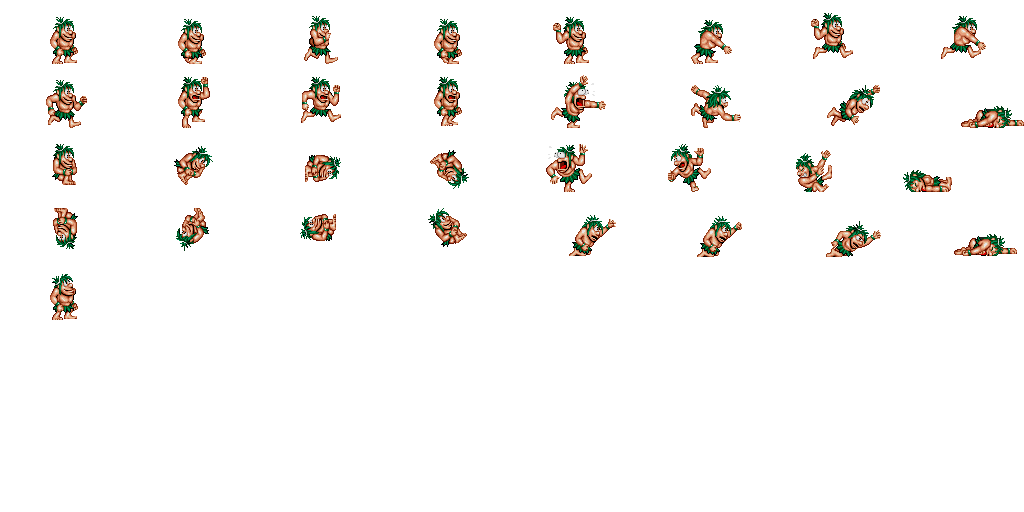
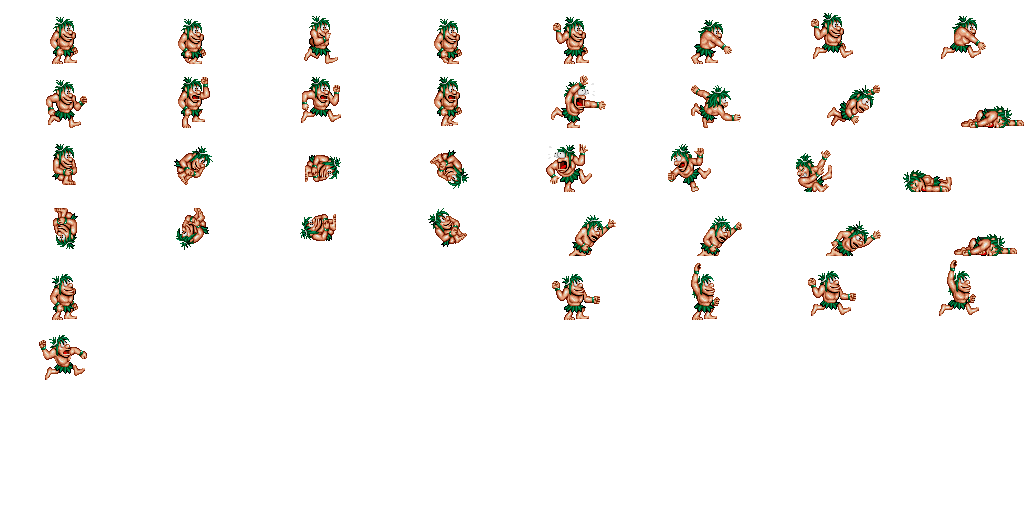
Completado el ataque vertical
* Añadidas las animaciones del ataque vertical.
* Añadido un parámetro a los métodos SetFlag de StateMachine para forzar
el cambio aunque el valor no se modifique.

diff --git a/CavemanNinja/PlayerAnimator.cpp b/CavemanNinja/PlayerAnimator.cpp
@@ -27,6 +27,14 @@ PlayerAnimator* PlayerAnimator::Create()
 	attackJump->frames.push_back({ 6, 0 });
 	attackJump->frames.push_back({ 7, 0 });
 
+	BasicAnimation* attackUp = new BasicAnimation(1024, 512, 8, 8, 16.0f, false);
+	attackUp->frames.push_back({ 4, 4 });
+	attackUp->frames.push_back({ 5, 4 });
+
+	BasicAnimation* attackUpJump = new BasicAnimation(1024, 512, 8, 8, 16.0f, false);
+	attackUpJump->frames.push_back({ 6, 4 });
+	attackUpJump->frames.push_back({ 7, 4 });
+
 	BasicAnimation* run = new BasicAnimation(1024, 512, 8, 8, 8.0f);
 	run->frames.push_back({ 1, 0 });
 	run->frames.push_back({ 2, 0 });
@@ -82,6 +90,8 @@ PlayerAnimator* PlayerAnimator::Create()
 	StateSwitcher<Animation>* idleUpState = new StateSwitcher<Animation>(idleUp);
 	StateSwitcher<Animation>* attackState = new StateSwitcher<Animation>(attack);
 	StateSwitcher<Animation>* attackJumpState = new StateSwitcher<Animation>(attackJump);
+	StateSwitcher<Animation>* attackUpState = new StateSwitcher<Animation>(attackUp);
+	StateSwitcher<Animation>* attackUpJumpState = new StateSwitcher<Animation>(attackUpJump);
 	StateSwitcher<Animation>* runState = new StateSwitcher<Animation>(run);
 	StateSwitcher<Animation>* jumpState = new StateSwitcher<Animation>(jump);
 	StateSwitcher<Animation>* longJumpStartState = new StateSwitcher<Animation>(longJumpStart);
@@ -99,6 +109,7 @@ PlayerAnimator* PlayerAnimator::Create()
 	idleState->AddStateTransition(new StateTransition<Animation>(longJumpStartState, new FlagEqualsCondition("jumping_long", true)));
 	idleState->AddStateTransition(new StateTransition<Animation>(fallState, new FlagEqualsCondition("falling", true)));
 	idleState->AddStateTransition(new StateTransition<Animation>(idleUpState, new FlagEqualsCondition("looking_up", true)));
+	idleState->AddStateTransition(new StateTransition<Animation>(attackUpState, new FlagEqualsCondition("weapon_attack_up", true)));
 	idleState->AddStateTransition(new StateTransition<Animation>(attackState, new FlagEqualsCondition("weapon_attack", true)));
 	idleState->AddStateTransition(new StateTransition<Animation>(hitBackState, new FlagEqualsCondition("hit_back", true)));
 	idleState->AddStateTransition(new StateTransition<Animation>(hitFrontState, new FlagEqualsCondition("hit_front", true)));
@@ -109,6 +120,7 @@ PlayerAnimator* PlayerAnimator::Create()
 	idleUpState->AddStateTransition(new StateTransition<Animation>(longJumpStartState, new FlagEqualsCondition("jumping_long", true)));
 	idleUpState->AddStateTransition(new StateTransition<Animation>(fallState, new FlagEqualsCondition("falling", true)));
 	idleUpState->AddStateTransition(new StateTransition<Animation>(idleState, new FlagEqualsCondition("looking_up", false)));
+	idleUpState->AddStateTransition(new StateTransition<Animation>(attackUpState, new FlagEqualsCondition("weapon_attack_up", true)));
 	idleUpState->AddStateTransition(new StateTransition<Animation>(attackState, new FlagEqualsCondition("weapon_attack", true)));
 	idleUpState->AddStateTransition(new StateTransition<Animation>(hitBackState, new FlagEqualsCondition("hit_back", true)));
 	idleUpState->AddStateTransition(new StateTransition<Animation>(hitFrontState, new FlagEqualsCondition("hit_front", true)));
@@ -122,16 +134,26 @@ PlayerAnimator* PlayerAnimator::Create()
 	attackJumpState->AddStateTransition(new StateTransition<Animation>(hitBackState, new FlagEqualsCondition("hit_back", true)));
 	attackJumpState->AddStateTransition(new StateTransition<Animation>(hitFrontState, new FlagEqualsCondition("hit_front", true)));
 
+	attackUpState->AddStateTransition(new StateTransition<Animation>(idleState, new AnimationEndCondition()));
+	attackUpState->AddStateTransition(new StateTransition<Animation>(hitBackState, new FlagEqualsCondition("hit_back", true)));
+	attackUpState->AddStateTransition(new StateTransition<Animation>(hitFrontState, new FlagEqualsCondition("hit_front", true)));
+
+	attackUpJumpState->AddStateTransition(new StateTransition<Animation>(jumpState, new AnimationEndCondition()));
+	attackUpJumpState->AddStateTransition(new StateTransition<Animation>(hitBackState, new FlagEqualsCondition("hit_back", true)));
+	attackUpJumpState->AddStateTransition(new StateTransition<Animation>(hitFrontState, new FlagEqualsCondition("hit_front", true)));
+
 	runState->AddStateTransition(new StateTransition<Animation>(idleState, new FlagEqualsCondition("speedX_absolute", 0.0f)));
 	runState->AddStateTransition(new StateTransition<Animation>(jumpState, new FlagEqualsCondition("jumping", true)));
 	runState->AddStateTransition(new StateTransition<Animation>(longJumpStartState, new FlagEqualsCondition("jumping_long", true)));
 	runState->AddStateTransition(new StateTransition<Animation>(fallState, new FlagEqualsCondition("falling", true)));
+	runState->AddStateTransition(new StateTransition<Animation>(attackUpState, new FlagEqualsCondition("weapon_attack_up", true)));
 	runState->AddStateTransition(new StateTransition<Animation>(attackState, new FlagEqualsCondition("weapon_attack", true)));
 	runState->AddStateTransition(new StateTransition<Animation>(hitBackState, new FlagEqualsCondition("hit_back", true)));
 	runState->AddStateTransition(new StateTransition<Animation>(hitFrontState, new FlagEqualsCondition("hit_front", true)));
 
 	jumpState->AddStateTransition(new StateTransition<Animation>(fallState, new FlagEqualsCondition("falling", true)));
 	jumpState->AddStateTransition(new StateTransition<Animation>(idleState, new FlagEqualsCondition("jumping", false)));
+	jumpState->AddStateTransition(new StateTransition<Animation>(attackUpJumpState, new FlagEqualsCondition("weapon_attack_up", true)));
 	jumpState->AddStateTransition(new StateTransition<Animation>(attackJumpState, new FlagEqualsCondition("weapon_attack", true)));
 	jumpState->AddStateTransition(new StateTransition<Animation>(hitBackState, new FlagEqualsCondition("hit_back", true)));
 	jumpState->AddStateTransition(new StateTransition<Animation>(hitFrontState, new FlagEqualsCondition("hit_front", true)));
@@ -148,6 +170,7 @@ PlayerAnimator* PlayerAnimator::Create()
 	longJumpState->AddStateTransition(new StateTransition<Animation>(hitFrontState, new FlagEqualsCondition("hit_front", true)));
 
 	fallState->AddStateTransition(new StateTransition<Animation>(idleState, new FlagEqualsCondition("falling", false)));
+	fallState->AddStateTransition(new StateTransition<Animation>(attackUpJumpState, new FlagEqualsCondition("weapon_attack_up", true)));
 	fallState->AddStateTransition(new StateTransition<Animation>(attackJumpState, new FlagEqualsCondition("weapon_attack", true)));
 	fallState->AddStateTransition(new StateTransition<Animation>(hitBackState, new FlagEqualsCondition("hit_back", true)));
 	fallState->AddStateTransition(new StateTransition<Animation>(hitFrontState, new FlagEqualsCondition("hit_front", true)));

diff --git a/GameEngine/StateMachine.h b/GameEngine/StateMachine.h
@@ -20,9 +20,9 @@ public:
 	void RegisterStateSwitcher(StateSwitcher<T>* stateSwitcher);
 
 	T* GetActualState();
-	StateSwitcher<T>* SetFlagValue(string flag, bool value);
-	StateSwitcher<T>* SetFlagValue(string flag, int value);
-	StateSwitcher<T>* SetFlagValue(string flag, float value);
+	StateSwitcher<T>* SetFlagValue(string flag, bool value, bool force = false);
+	StateSwitcher<T>* SetFlagValue(string flag, int value, bool force = false);
+	StateSwitcher<T>* SetFlagValue(string flag, float value, bool force = false);
 	StateSwitcher<T>* Trigger(string flag);
 
 protected:
@@ -68,9 +68,9 @@ T* StateMachine<T>::GetActualState()
 }
 
 template<class T>
-StateSwitcher<T>* StateMachine<T>::SetFlagValue(string flag, bool value)
+StateSwitcher<T>* StateMachine<T>::SetFlagValue(string flag, bool value, bool force)
 {
-	if (flags[flag] != (float) value)
+	if (force || flags[flag] != (float) value)
 	{
 		flags[flag] = (float) value;
 		StateSwitcher<T>* newStateSwitcher = currentStateSwitcher->Process(flags);
@@ -84,9 +84,9 @@ StateSwitcher<T>* StateMachine<T>::SetFlagValue(string flag, bool value)
 }
 
 template<class T>
-StateSwitcher<T>* StateMachine<T>::SetFlagValue(string flag, int value)
+StateSwitcher<T>* StateMachine<T>::SetFlagValue(string flag, int value, bool force)
 {
-	if (flags[flag] != (float)value)
+	if (force || flags[flag] != (float)value)
 	{
 		flags[flag] = (float) value;
 		StateSwitcher<T>* newStateSwitcher = currentStateSwitcher->Process(flags);
@@ -100,9 +100,9 @@ StateSwitcher<T>* StateMachine<T>::SetFlagValue(string flag, int value)
 }
 
 template<class T>
-StateSwitcher<T>* StateMachine<T>::SetFlagValue(string flag, float value)
+StateSwitcher<T>* StateMachine<T>::SetFlagValue(string flag, float value, bool force)
 {
-	if (flags[flag] != value)
+	if (force || flags[flag] != value)
 	{
 		flags[flag] = value;
 		StateSwitcher<T>* newStateSwitcher = currentStateSwitcher->Process(flags);
